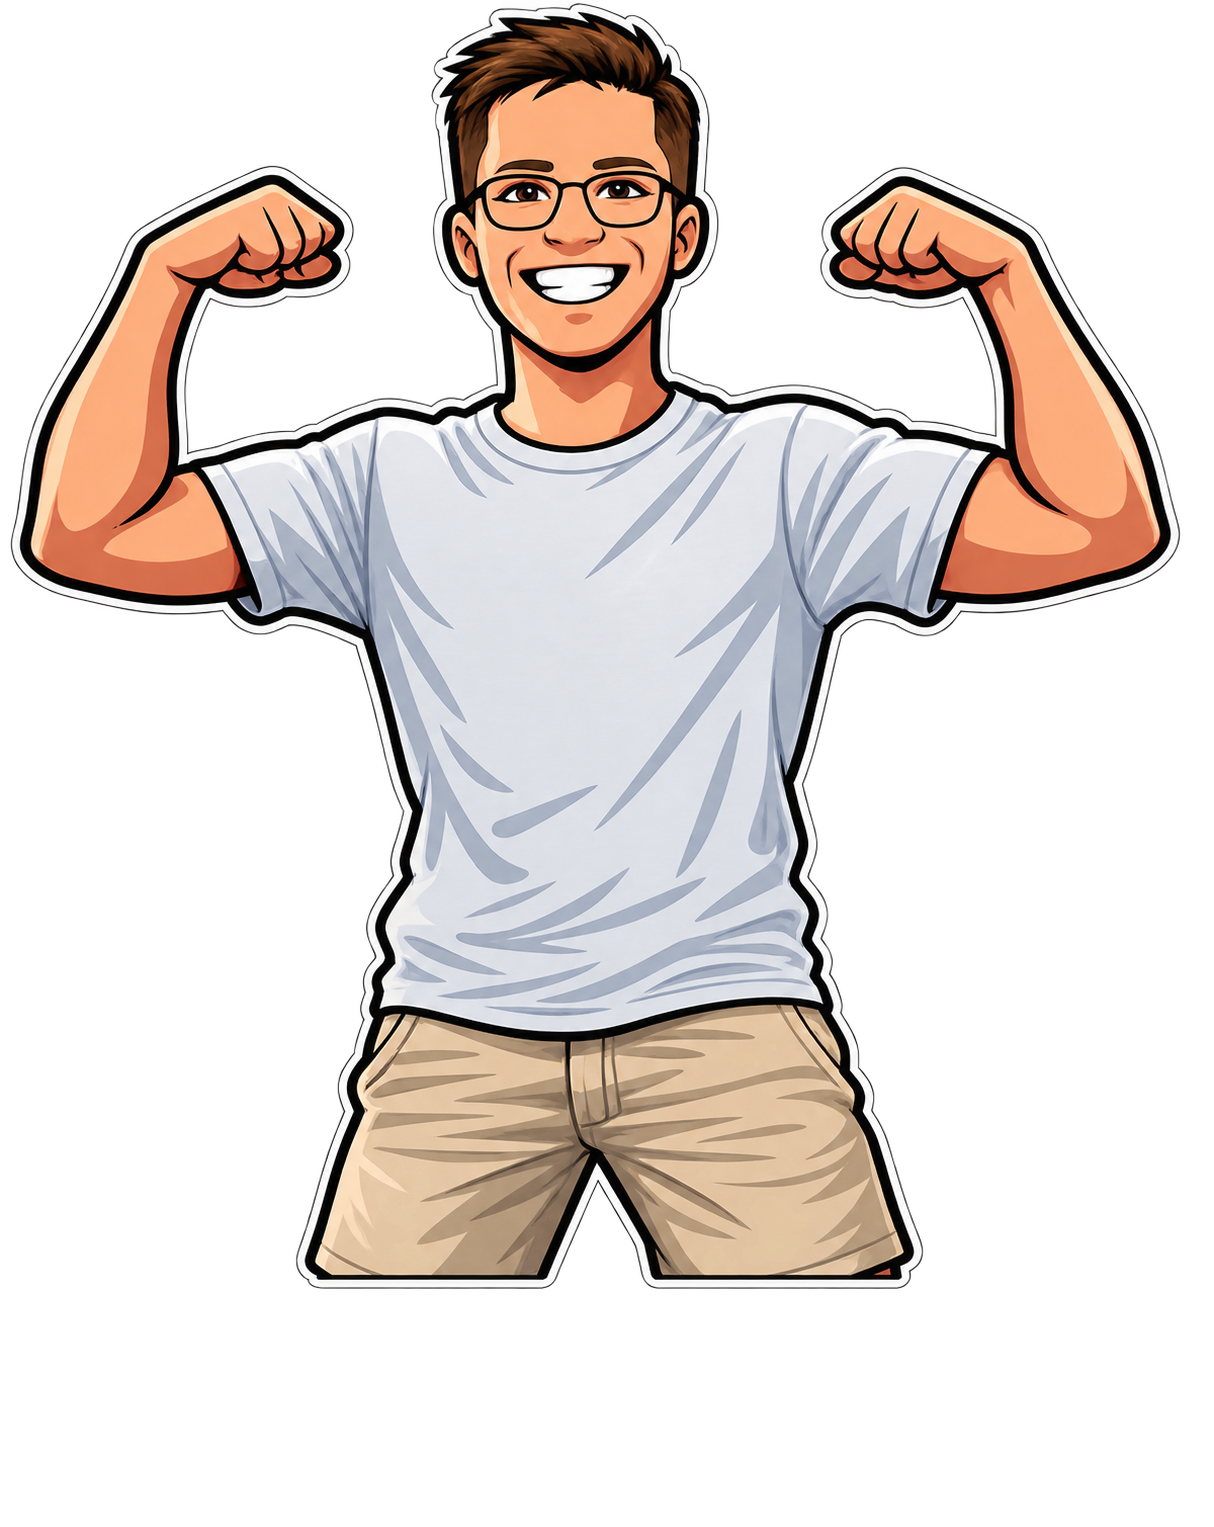
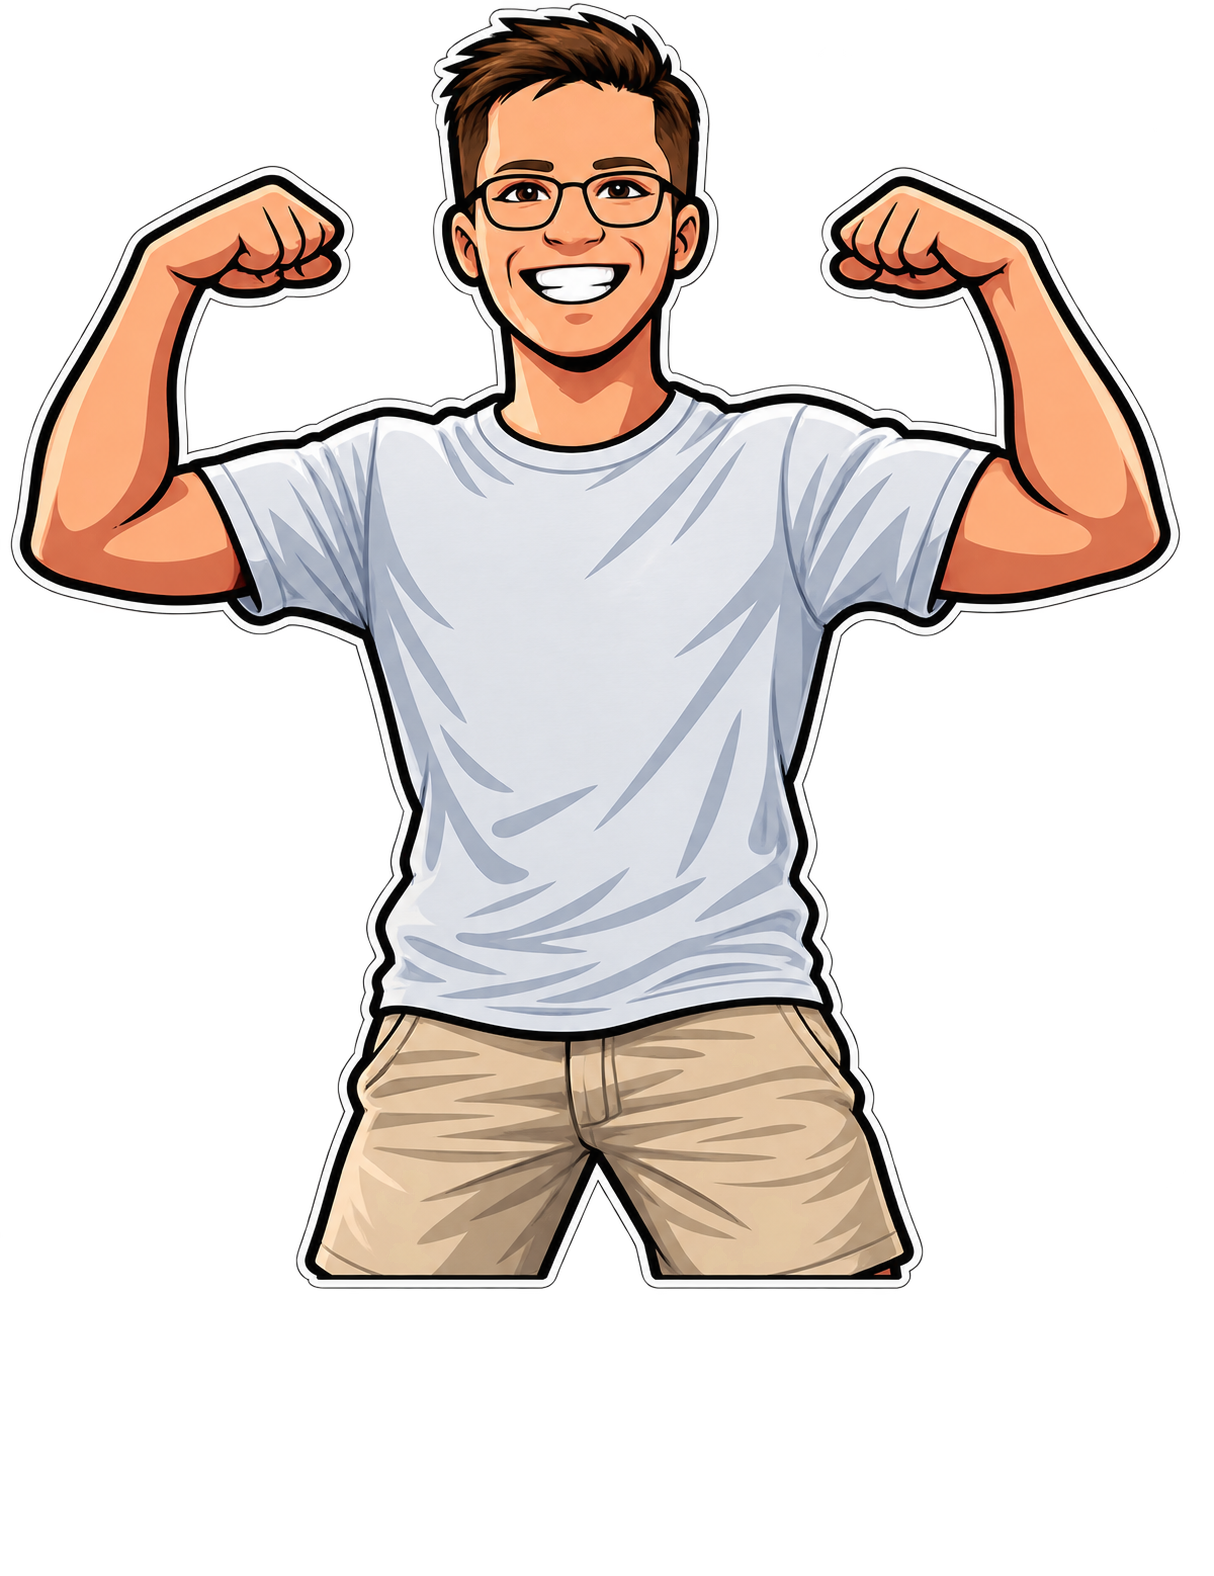
update

Changed region(s): [[0.0, 0.0, 0.9753, 0.8618]]

diff --git a/index.html b/index.html
@@ -14,24 +14,24 @@
     <meta property="og:url" content="https://arnas-so.com/" />
     <meta property="og:title" content="Arnas Sokolovas | Junior UX/UI Designer" />
     <meta property="og:description" content="Portfolio with UX/UI case studies, user research, prototypes, usability testing, and a frontend brain." />
-    <meta property="og:image" content="https://arnas-so.com/arnas-photo.png" />
-    <meta property="og:image:url" content="https://arnas-so.com/arnas-photo.png" />
-    <meta property="og:image:secure_url" content="https://arnas-so.com/arnas-photo.png" />
+    <meta property="og:image" content="https://arnas-so.com/arnas-sokolovas-social-preview.png" />
+    <meta property="og:image:url" content="https://arnas-so.com/arnas-sokolovas-social-preview.png" />
+    <meta property="og:image:secure_url" content="https://arnas-so.com/arnas-sokolovas-social-preview.png" />
     <meta property="og:image:type" content="image/png" />
-    <meta property="og:image:width" content="942" />
-    <meta property="og:image:height" content="992" />
-    <meta property="og:image:alt" content="Portrait of Arnas Sokolovas" />
+    <meta property="og:image:width" content="1200" />
+    <meta property="og:image:height" content="630" />
+    <meta property="og:image:alt" content="Social preview for Arnas Sokolovas, junior UX/UI designer" />
     <meta property="og:site_name" content="Arnas Sokolovas" />
 
     <meta name="twitter:card" content="summary_large_image" />
     <meta name="twitter:title" content="Arnas Sokolovas | Junior UX/UI Designer" />
     <meta name="twitter:description" content="Portfolio with UX/UI case studies, user research, prototypes, usability testing, and a frontend brain." />
-    <meta name="twitter:image" content="https://arnas-so.com/arnas-photo.png" />
-    <meta name="twitter:image:src" content="https://arnas-so.com/arnas-photo.png" />
-    <meta name="twitter:image:alt" content="Portrait of Arnas Sokolovas" />
+    <meta name="twitter:image" content="https://arnas-so.com/arnas-sokolovas-social-preview.png" />
+    <meta name="twitter:image:src" content="https://arnas-so.com/arnas-sokolovas-social-preview.png" />
+    <meta name="twitter:image:alt" content="Social preview for Arnas Sokolovas, junior UX/UI designer" />
 
     <link rel="icon" type="image/svg+xml" href="/favicon.svg" />
-    <link rel="preload" href="/arnas-photo.png" as="image" type="image/png" />
+    <link rel="preload" href="/arnas-sokolovas-social-preview.png" as="image" type="image/png" />
     <script type="application/ld+json">
       {
         "@context": "https://schema.org",

diff --git a/src/utils/pageMeta.js b/src/utils/pageMeta.js
@@ -1,4 +1,4 @@
-const defaultImage = 'https://arnas-so.com/arnas-photo.png'
+const defaultImage = 'https://arnas-so.com/arnas-sokolovas-social-preview.png'
 
 export const homeMeta = {
   title: 'Arnas Sokolovas | Junior UX/UI Designer',
